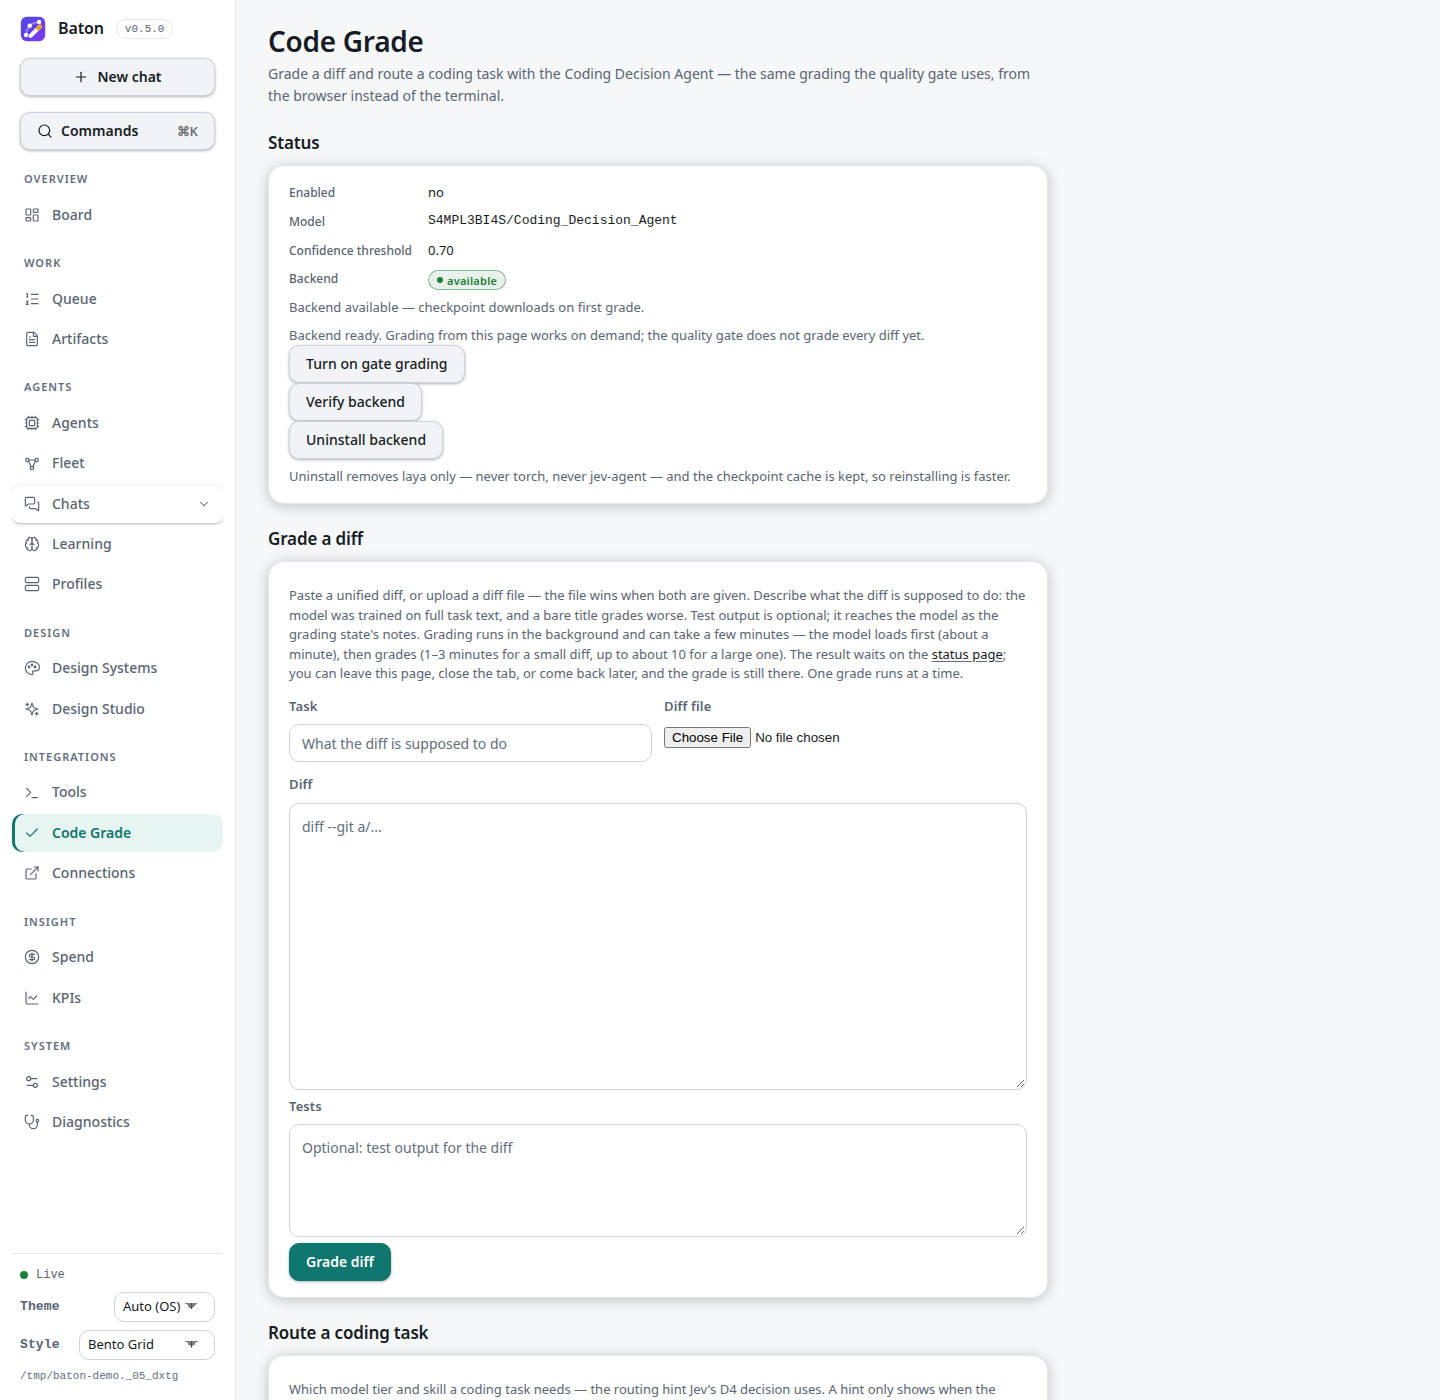
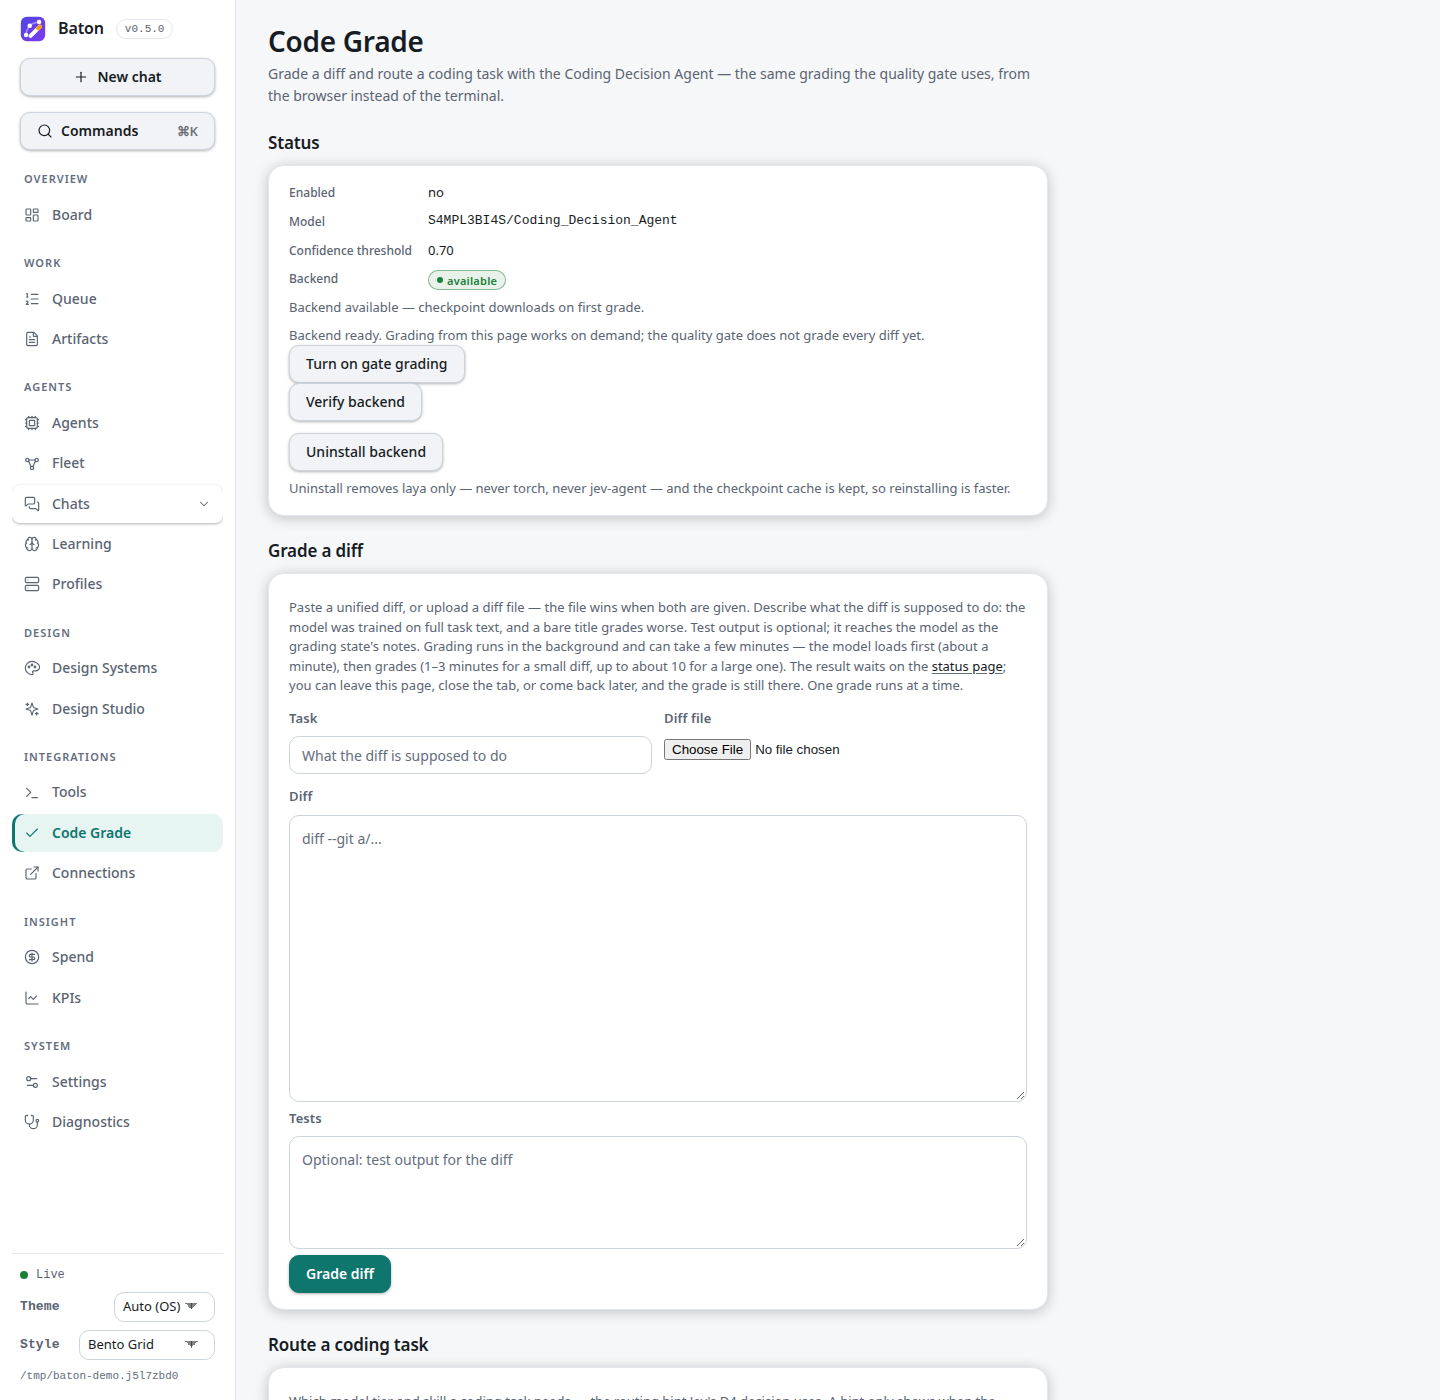
Give stacked dashboard buttons a token gap (issue #375)

Changed region(s): [[0.1875, 0.3071, 0.7188, 0.6143], [0.1875, 0.86, 0.7188, 1.0], [0.1875, 0.7679, 0.375, 0.8293]]

diff --git a/src/jev_agent/dashboard/templates/code_grade.html b/src/jev_agent/dashboard/templates/code_grade.html
@@ -58,26 +58,39 @@
   {% elif install.state in ("done", "failed", "stopped", "interrupted") and install.kind %}
   <p class="flash" role="status">The last backend {{ install.kind }} {{ install.state }}{% if install.message %}: {{ install.message }}{% endif %} — <a href="/code-grade/install">see the result</a>.</p>
   {% endif %}
-  {% if show_verify %}
-  <form method="post" action="/code-grade/install/verify">
-    {{ csrf_input() }}
-    <button class="btn btn-secondary" type="submit">Verify backend</button>
-  </form>
-  {% endif %}
-  {% if show_repair %}
-  <form method="post" action="/code-grade/install/repair">
-    {{ csrf_input() }}
-    <button class="btn btn-secondary" type="submit">Repair backend</button>
-  </form>
-  <p class="hint">Repair removes laya and reinstalls it, then verifies again.</p>
-  {% endif %}
-  {% if show_uninstall %}
-  <form method="post" action="/code-grade/install/uninstall">
-    {{ csrf_input() }}
-    <button class="btn btn-secondary" type="submit">Uninstall backend</button>
-  </form>
-  <p class="hint">Uninstall removes laya only — never torch, never jev-agent — and the
-  checkpoint cache is kept, so reinstalling is faster.</p>
+  {% if show_verify or show_repair or show_uninstall %}
+  {# Issue #375: these actions are separate POST forms, and bare consecutive
+     forms stack with zero gap. The stack gives each button a token gap, and
+     each hint stays inside its button's group. #}
+  <div class="stack">
+    {% if show_verify %}
+    <div>
+      <form method="post" action="/code-grade/install/verify">
+        {{ csrf_input() }}
+        <button class="btn btn-secondary" type="submit">Verify backend</button>
+      </form>
+    </div>
+    {% endif %}
+    {% if show_repair %}
+    <div>
+      <form method="post" action="/code-grade/install/repair">
+        {{ csrf_input() }}
+        <button class="btn btn-secondary" type="submit">Repair backend</button>
+      </form>
+      <p class="hint">Repair removes laya and reinstalls it, then verifies again.</p>
+    </div>
+    {% endif %}
+    {% if show_uninstall %}
+    <div>
+      <form method="post" action="/code-grade/install/uninstall">
+        {{ csrf_input() }}
+        <button class="btn btn-secondary" type="submit">Uninstall backend</button>
+      </form>
+      <p class="hint">Uninstall removes laya only — never torch, never jev-agent — and the
+      checkpoint cache is kept, so reinstalling is faster.</p>
+    </div>
+    {% endif %}
+  </div>
   {% endif %}
   {% if job.state == "running" %}
   <p class="flash" role="status">A {{ job.kind }} is running — <a href="/code-grade/status">watch its progress</a>.

diff --git a/src/jev_agent/dashboard/static/style.css b/src/jev_agent/dashboard/static/style.css
@@ -670,6 +670,13 @@ form.bisect input[type="text"]#bisect-mark { width: 5em; }
 form.key-add { align-items: center; gap: var(--s1); margin-left: var(--s2); vertical-align: middle; }
 form.key-add .key-input { width: 220px; height: var(--control-h-sm); font-size: var(--text-xs); }
 .actions { display: flex; flex-wrap: wrap; gap: var(--s2); align-items: center; }
+/* Stacked action groups (Code Grade verify/repair/uninstall, Tools cache
+   clear/calibrate, issue #375): each action is its own POST form, and bare
+   consecutive forms stack with zero gap, so identical buttons fuse into one
+   control. The stack gives each action a token gap; a button's hint stays
+   inside its action's group, under the button. Items stretch to the panel
+   width so full-width forms (Tools cache clear) keep their layout. */
+.stack { display: flex; flex-direction: column; gap: var(--s3); }
 /* Issue #297: the APIs table's actions cell held the Test form and the Remove
    form (scope select + button) in one flex row, and the global
    `select { width: 100% }` let the select shrink to "re ▾" in the narrow

diff --git a/src/jev_agent/dashboard/templates/tools.html b/src/jev_agent/dashboard/templates/tools.html
@@ -428,6 +428,9 @@
   {% if cache_view.stats.entries == 0 %}
   <p class="hint">No entries yet — the cache fills as runs serve repeat decisions and role calls.</p>
   {% endif %}
+  {# Issue #375: bare consecutive forms stack with zero gap — Clear cache sat
+     directly on Run calibration. The stack gives them a token gap. #}
+  <div class="stack">
   <form method="post" action="/tools/cache/clear">
     {{ csrf_input() }}
     <div class="form-grid">
@@ -454,6 +457,7 @@
     reports how often same-similarity pairs gave the same answer, per threshold. Read-only —
     nothing is served or configured until you apply a threshold.</span>
   </form>
+  </div>
 </section>
 
 <h2 class="section" id="quality-checks">Quality checks</h2>
